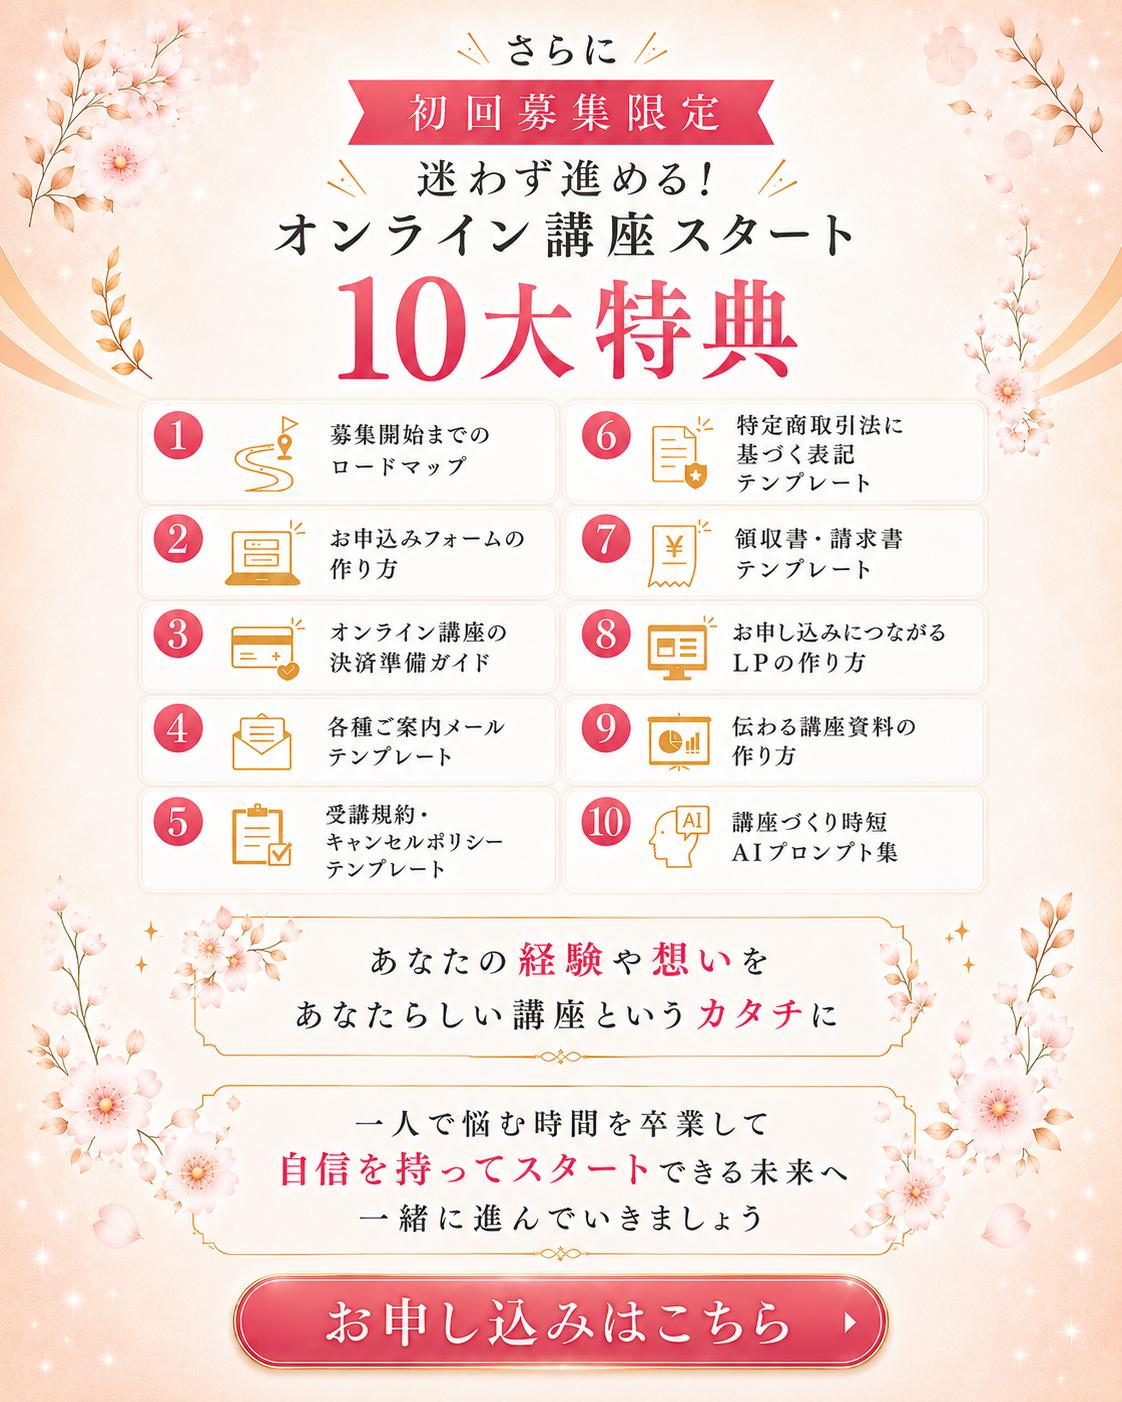
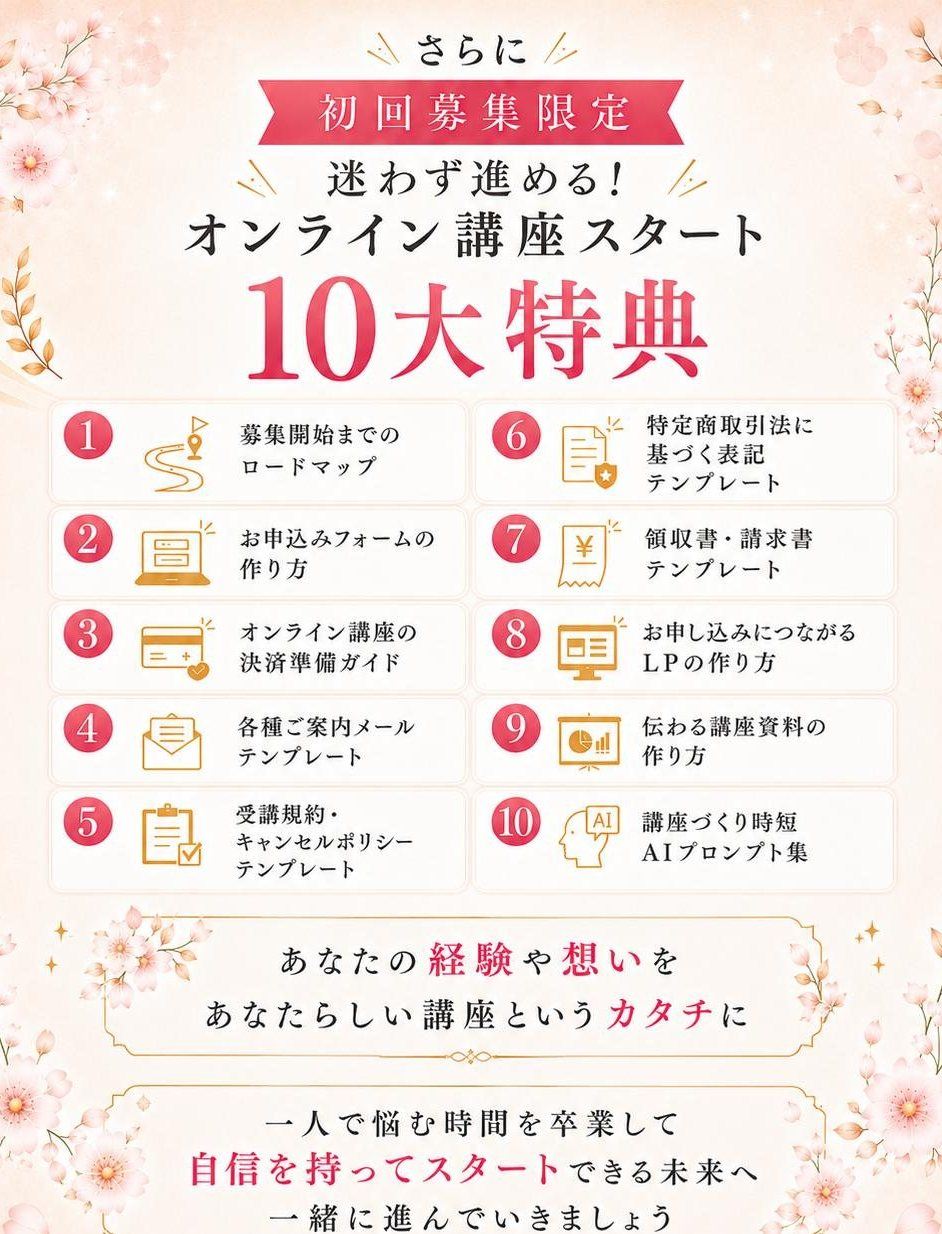
Split CTA image and crop side margins on last images

diff --git a/index.html b/index.html
@@ -23,6 +23,9 @@
     <img src="images/8.jpg" alt="8">
     <img src="images/9.jpg" alt="9">
     <img src="images/10.jpg" alt="10">
+    <a href="#">
+      <img src="images/11.jpg" alt="申し込みはこちら">
+    </a>
   </div>
 </body>
 </html>